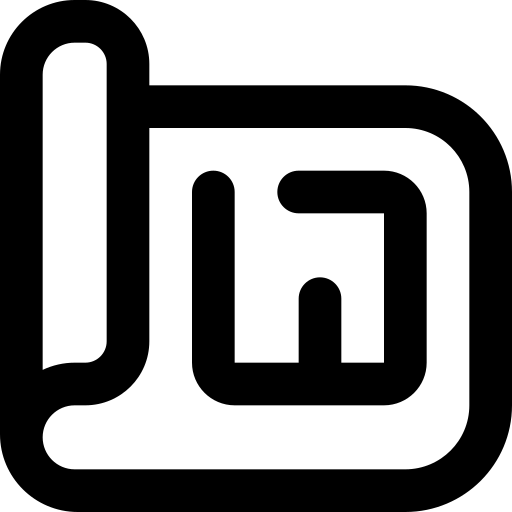
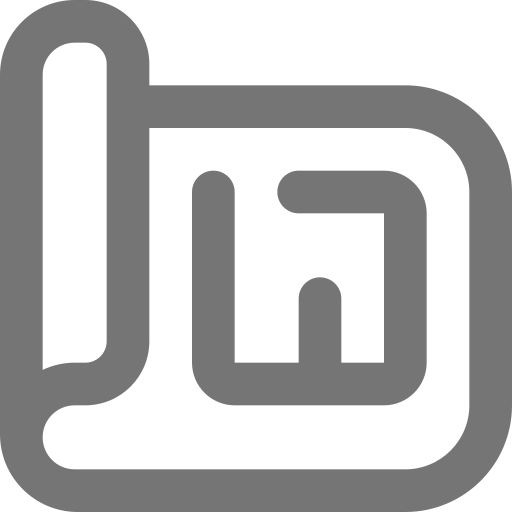
mi perfil

diff --git a/frontend/src/pages/components/sidebar-pyme.tsx b/frontend/src/pages/components/sidebar-pyme.tsx
@@ -2,7 +2,7 @@ import React from 'react';
 import { useState } from 'react';
 import Dashboard from "./dashboardPYME";
 import Mensajeria from "./mensajeria";
-//import MiPerfil from "./components/MiPerfil";
+import MiPerfil from "./miperfil";
 
 export default function Sidebar() {
     const [currentView, setCurrentView] = useState("dashboard");
@@ -16,75 +16,80 @@ export default function Sidebar() {
             <div className="d-flex">
                 <div
                     id="sidebar"
-                    className="bg-light text-dark p-3 border-top"
+                    className="bg-light text-body-secondary p-3 border-top"
                     style={{ height: '90vh', width: '250px' }}
                 >
                     <h4 className="text-center">Menú</h4>
-                    <ul className="nav flex-column">
+                    <ul className="nav flex-column text-body-secondary">
                         <li className="nav-item ">
-                            <a className="nav-link nav-elements"
+                            <a className="nav-link nav-elements text-body-secondary d-flex align-items-center gap-2"
                                 onClick={() => handleViewChange("dashboard")}
                             >
                                 <img
-                                    src="/imagenes/monitor.png"
-                                    alt="Dashboard Icon"
-                                    className="nav-icon gap"
+                                    src="/imagenes/aplicaciones.png"
+                                    alt="Dashboard"
+                                    className="nav-icon"
                                     width="20"
                                     height="20"
+                                    id="dashboard"
                                 />
                                 Dashboard
                             </a>
                         </li>
                         <li className="nav-item">
-                            <a className="nav-link nav-elements"
+                            <a className="nav-link nav-elements text-body-secondary d-flex align-items-center gap-2"
                                 onClick={() => handleViewChange("mensajeria")}
                             >
                                 <img
                                     src="/imagenes/usuarios-alt.png"
-                                    alt="Dashboard Icon"
-                                    className="nav-icon gap"
+                                    alt="Mensajeria"
+                                    className="nav-icon"
                                     width="20"
                                     height="20"
+                                    id="chat"
                                 />
                                 Chat Inversores
                             </a>
                         </li>
                         <li className="nav-item">
-                            <a className="nav-link nav-elements"
-                                onClick={() => handleViewChange("dashboard")}
+                            <a className="nav-link nav-elements text-body-secondary d-flex align-items-center gap-2"
+                                onClick={() => handleViewChange("perfil")}
                             >
                                 <img
                                     src="/imagenes/usuario.png"
                                     alt="Dashboard Icon"
-                                    className="nav-icon gap"
+                                    className="nav-icon"
                                     width="20"
                                     height="20"
+                                    id="miperfil"
                                 />
                                 Mi Perfil
                             </a>
                         </li>
                         <li className="nav-item">
-                            <a className="nav-link nav-elements"
+                            <a className="nav-link nav-elements text-body-secondary d-flex align-items-center gap-2"
                                 onClick={() => handleViewChange("dashboard")}
                             >
                                 <img
-                                    src="/imagenes/usuarios-alt.png"
+                                    src="/imagenes/plano.png"
                                     alt="Dashboard Icon"
-                                    className="nav-icon gap"
+                                    className="nav-icon"
                                     width="20"
                                     height="20"
+                                    id="proyectos"
                                 />
                                 Mis Proyectos
                             </a>
                         </li>
                     </ul>
                 </div>
+
                 {/* Contenido Principal */}
                 <div className="flex-grow-1 p-4">
                     {currentView === "dashboard" && <Dashboard />}
                     {currentView === "mensajeria" && <Mensajeria />}
-                    {/*{currentView === "perfil" && <MiPerfil />}*/}
-                    {/*{currentView === "proyecots" && <Proyectos />}*/}
+                    {currentView === "perfil" && <MiPerfil />}
+                    {/*{currentView === "proyectos" && <Proyectos />}*/}
                 </div>
             </div>
         </>

diff --git a/frontend/src/pages/components/userInformation.tsx b/frontend/src/pages/components/userInformation.tsx
@@ -1,0 +1,46 @@
+import React from 'react';
+
+export default function userInformation() {
+    return (
+        <div className="card " style={{ width: "51%" }}>
+            <div className="card-body">
+                <div className='hstack gap-3 align-items-center '>
+                    <h5 className="card-title">Información Personal</h5>
+                    <button type="button"
+                        className="btn btn4 ms-auto d-flex justify-content-center align-items-center gap-2"
+                    >
+                        <img
+                            src="./imagenes/lapiz2.png"
+                            alt="Editar"
+                            width="18"
+                            height="18"
+                            id="btn-img-editar"
+                        />
+                        Editar
+                    </button>
+                </div>
+                <div className="card-text paddingLeft">
+                    <div className="row align-items-start">
+                        <div className="col">
+                            <p className="card-text text-body-secondary mt-5 mb-2">Nombre</p>
+                            <p>Nombre</p>
+
+                            <p className="card-text text-body-secondary mt-5 mb-2">Correo Electrónico</p>
+                            <p>Correo Electrónico</p>
+
+                            <p className="card-text text-body-secondary mt-5 mb-2">Dirección</p>
+                            <p>Dirección</p>
+                        </div>
+                        <div className="col">
+                            <p className="card-text text-body-secondary mt-5 mb-2">Apellido</p>
+                            <p>Apellido</p>
+
+                            <p className="card-text text-body-secondary mt-5 mb-2">Número de Teléfono</p>
+                            <p>Número de Teléfono</p>
+                        </div>
+                    </div>
+                </div>
+            </div>
+        </div>
+    );
+};

diff --git a/frontend/src/styles/styles.css b/frontend/src/styles/styles.css
@@ -219,9 +219,6 @@
 }
 
 .usuario-card {
-    display: flex;
-    align-items: center;
-    justify-content: flex-start;
     background-color: white;
     height: 100px;
     padding: 10px;
@@ -233,23 +230,13 @@
     width: 77%;
 }
 
-.avatar-container {
-    margin-right: 15px;
-}
-
 .user-name {
     font-size: 20px;
     font-weight: 400;
-    margin: 0;
-    padding: 0;
-    align-content: flex-start;
-    justify-content: center;
-    display: flex;
 }
 
 .nav-elements {
     transition: color 0.3s ease-in-out;
-    color: black !important;
     gap: 10px;
 }
 
@@ -259,8 +246,20 @@
     border: none;
 }
 
-.gap {
-    margin-right: 10px;
+.nav-elements:hover #dashboard {
+    content: url(/imagenes/aplicaciones2.png);
+}
+
+.nav-elements:hover #chat {
+    content: url(/imagenes/usuarios-alt2.png)
+}
+
+.nav-elements:hover #miperfil {
+    content: url(/imagenes/usuario2.png)
+}
+
+.nav-elements:hover #proyectos {
+    content: url(/imagenes/plano2.png)
 }
 
 .grafica {
@@ -291,11 +290,12 @@
     margin-right: 20px;
 }
 
-.mensajeria {
+.components {
     display: flex;
-    gap: 20px;
     width: 100vw;
-    height: 40vw;
+    flex-direction: row;
+    align-self: stretch;
+    align-items: baseline;
 }
 
 .btn2 {
@@ -305,4 +305,36 @@
 
 .btn2:hover {
     background-color: #055E63 !important;
+}
+
+.chat {
+    background-color: #06b09a;
+    color: white;
+}
+
+.btn3 {
+    background-color: #EC221F !important;
+    color: white !important;
+}
+
+.btn3:hover {
+    background-color: #C00F0C !important;
+}
+
+.paddingLeft p {
+    padding-left: 7%;
+}
+
+.btn4 {
+    outline: 1px solid #06b09a !important;
+    color: #06b09a !important;
+}
+
+.btn4:hover {
+    background-color: #06b09a !important;
+    color: white !important;
+}
+
+.btn4:hover #btn-img-editar {
+    content: url(/imagenes/lapiz1.png);
 }

diff --git a/frontend/src/pages/components/navbar-pyme.tsx b/frontend/src/pages/components/navbar-pyme.tsx
@@ -16,23 +16,16 @@ export default function Navbar() {
                         <button className="btn btn2" type="submit">Buscar</button>
                     </form>
                     {/* User Profile */}
-                    <a
-                        className="nav-link dropdown-toggle d-flex align-items-center"
-                        href="#"
-                        id="navbarDropdown"
-                        role="button"
-                        data-bs-toggle="dropdown"
-                        aria-expanded="false"
-                    >
+                    <div className="hstack gap-2">
                         <img
-                            src="https://www.gravatar.com/avatar/00000000000000000000000000000000?d=mp&f=y"
+                            src="https://www.shareicon.net/data/512x512/2016/09/15/829453_user_512x512.png"
                             alt="User Avatar"
                             className="rounded-circle"
-                            width="30"
-                            height="30"
+                            width="40"
+                            height="40"
                         />
-                        <span className="ms-2">User Name</span>
-                    </a>
+                        <span>User Name</span>
+                    </div>
                 </div>
             </nav >
         </>

diff --git a/frontend/src/pages/components/mensajeria.tsx b/frontend/src/pages/components/mensajeria.tsx
@@ -3,7 +3,7 @@ import React from 'react';
 export default function Mensajes() {
     return (
         <>
-            <div className="mensajeria">
+            <div className="components gap-4" style={{ height: "40vw" }}>
                 <div className="card" style={{ width: "30%" }}>
                     <div className="card-header">
                         <h5>Mis conversaciones</h5>
@@ -88,7 +88,7 @@ export default function Mensajes() {
                         </div>
 
                         <div className="d-flex align-items-start justify-content-end mb-3">
-                            <div className="message p-2 rounded bg-light">
+                            <div className="message p-2 rounded chat">
                                 ¡Estoy bien, gracias por preguntar!
                             </div>
                             <img src="https://randomuser.me/api/portraits/women/1.jpg" className="rounded-circle ms-3" alt="Usuario 2" style={{ width: "40px", height: "40px" }} />

diff --git a/frontend/src/pages/components/userProfile.tsx b/frontend/src/pages/components/userProfile.tsx
@@ -1,0 +1,21 @@
+import React from 'react';
+
+export default function userProfile() {
+    return (
+        <div className="card text-center" style={{ width: "18rem" }}>
+            <div className="card-body">
+                <h5 className="card-title">User Name</h5>
+                <h6 className="card-subtitle mb-2">Rol</h6>
+                <img
+                    src="https://www.shareicon.net/data/512x512/2016/09/15/829453_user_512x512.png"
+                    alt="User Avatar"
+                    className="rounded-circle mb-3 mt-3"
+                    width="120"
+                    height="120"
+                />
+                <p className="card-text text-body-secondary">Some quick example text to build on the card title and make up the bulk of the card's content.</p>
+                <button type="button" className="btn btn3">Eliminar Cuenta</button>
+            </div>
+        </div>
+    );
+};

diff --git a/frontend/src/pages/components/portadaUsuario.tsx b/frontend/src/pages/components/portadaUsuario.tsx
@@ -10,15 +10,15 @@ export default function Portada() {
                 </div>
             </div>
 
-            <div className="usuario-card">
+            <div className="usuario-card hstack gap-3">
                 <img
-                    src="https://www.gravatar.com/avatar/00000000000000000000000000000000?d=mp&f=y"
+                    src="https://www.shareicon.net/data/512x512/2016/09/15/829453_user_512x512.png"
                     alt="User Avatar"
-                    className="rounded-circle avatar-container"
+                    className="rounded-circle"
                     width="70"
                     height="70"
                 />
-                <div className="user-name">
+                <div className="user-name hstack gap-2">
                     <p>Nombre del Usuario</p>
                     <p>-</p>
                     <p>Rol</p>

diff --git a/frontend/src/pages/PYMES.tsx b/frontend/src/pages/PYMES.tsx
@@ -1,0 +1,14 @@
+import React from 'react';
+import Sidebar from './components/sidebar-pyme'
+import Navbar from './components/navbar-pyme'
+
+export default function BackgroundText() {
+    return (
+        <>
+            <Navbar />
+            <div style={{ display: 'flex' }}>
+                <Sidebar />
+            </div>
+        </>
+    );
+};

diff --git a/frontend/src/pages/components/miperfil.tsx b/frontend/src/pages/components/miperfil.tsx
@@ -1,0 +1,12 @@
+import React from 'react';
+import UserProfile from './userProfile'
+import UserInformation from './userInformation'
+
+export default function MiPerfil() {
+    return (
+        <div className="components gap-4">
+            <UserProfile />
+            <UserInformation />
+        </div >
+    );
+};
